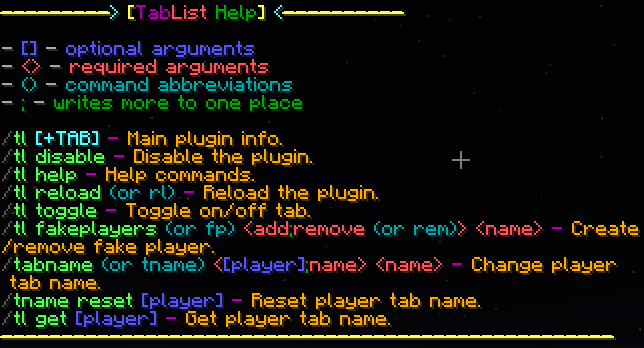
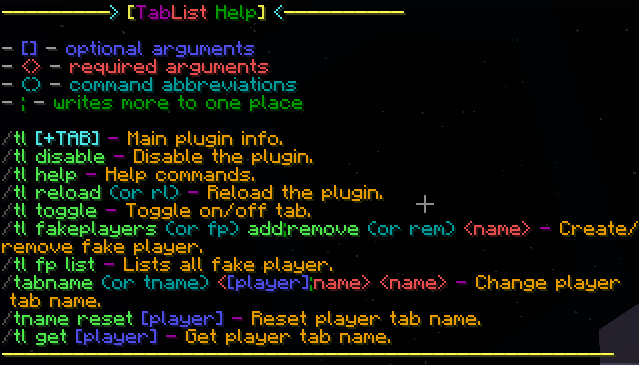
Added ping placeholder format
Other:
- Removed player-name-type string. - It was unnecessary.
- Added hide-group-when-player-vanished boolean to change-prefix-suffix-in-tablist. - If a player vanished the group hide from tab. (Requires Essentials or EssX)
- Added hide-group-when-player-afk boolean to change-prefix-suffix-in-tablist. - If a player afk the group hide from tab. (Requires Essentials or EssX)
- Removed %online+1% placeholder. - It was unnecessary, because already exists.

diff --git a/src/hu/montlikadani/TabList/bukkit/Permissions.java b/src/hu/montlikadani/TabList/bukkit/Permissions.java
@@ -19,5 +19,6 @@ public class Permissions {
 	public static final Permission FAKEPLAYERS = new Permission("tablist.fakeplayers");
 	public static final Permission ADDFAKEPLAYER = new Permission("tablist.fakeplayers.add");
 	public static final Permission REMOVEFAKEPLAYER = new Permission("tablist.fakeplayers.remove");
+	public static final Permission LISTFAKEPLAYERS = new Permission("tablist.fakeplayers.list");
 
 }
